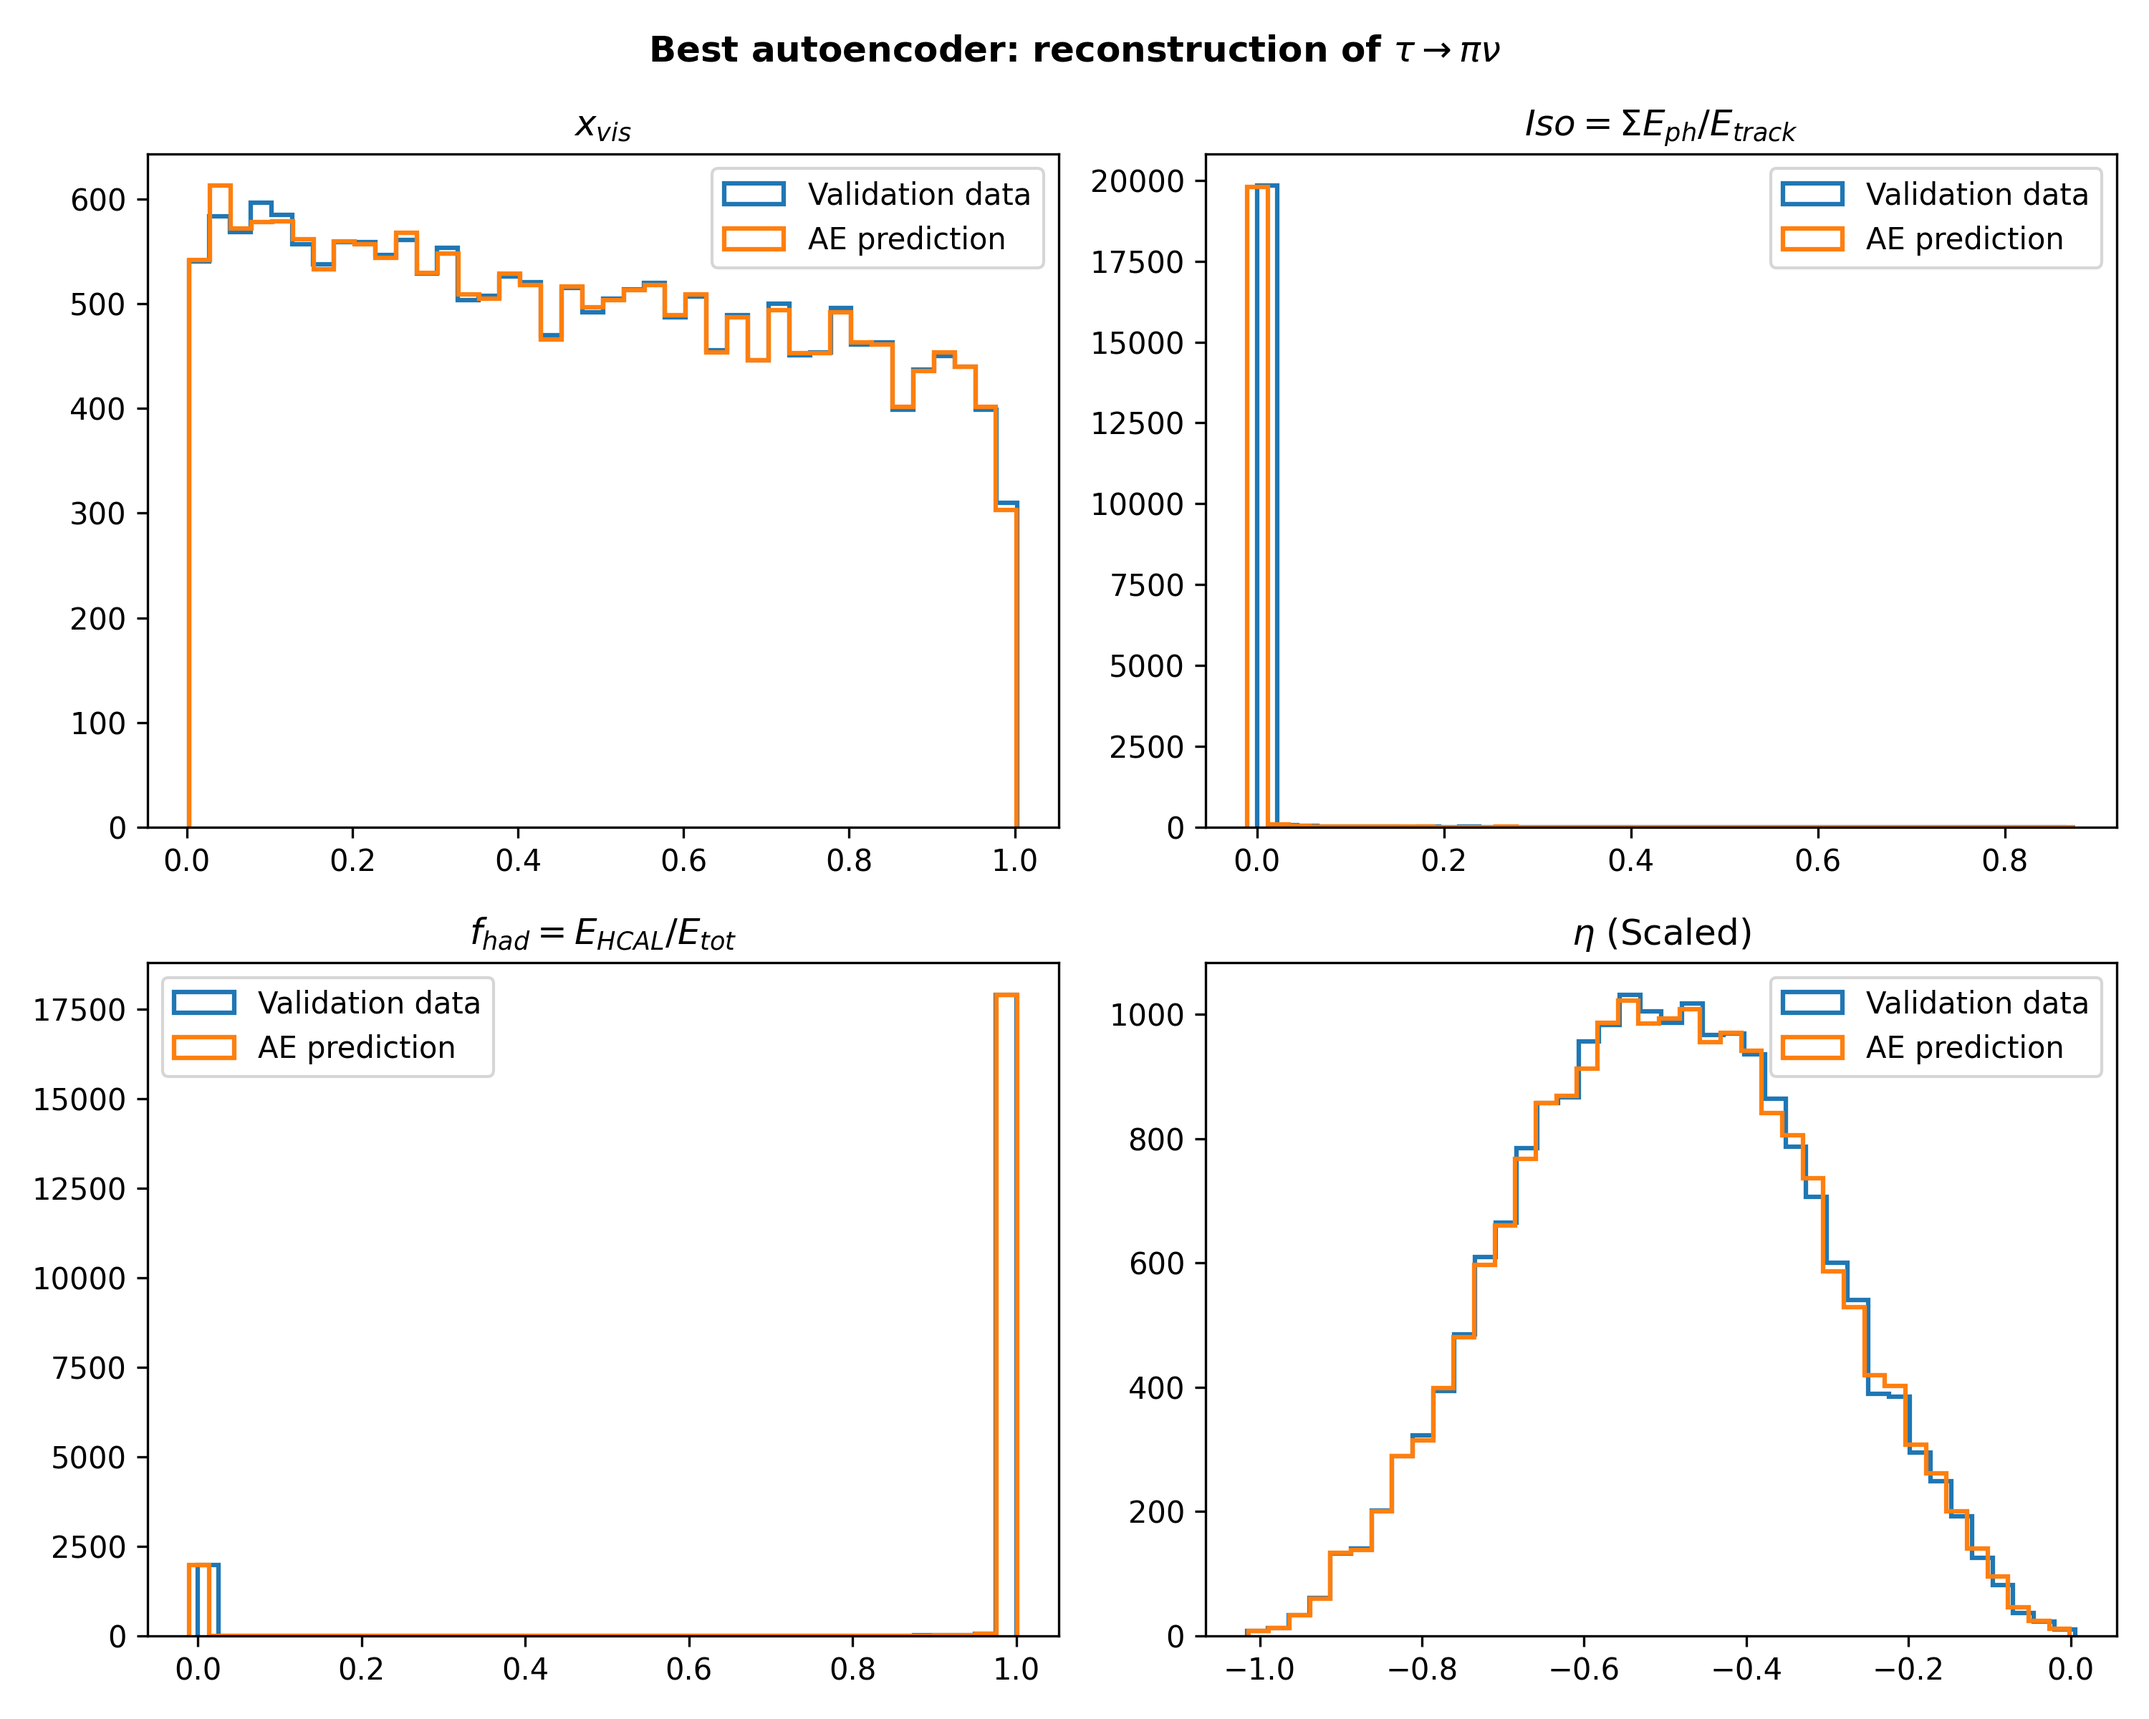
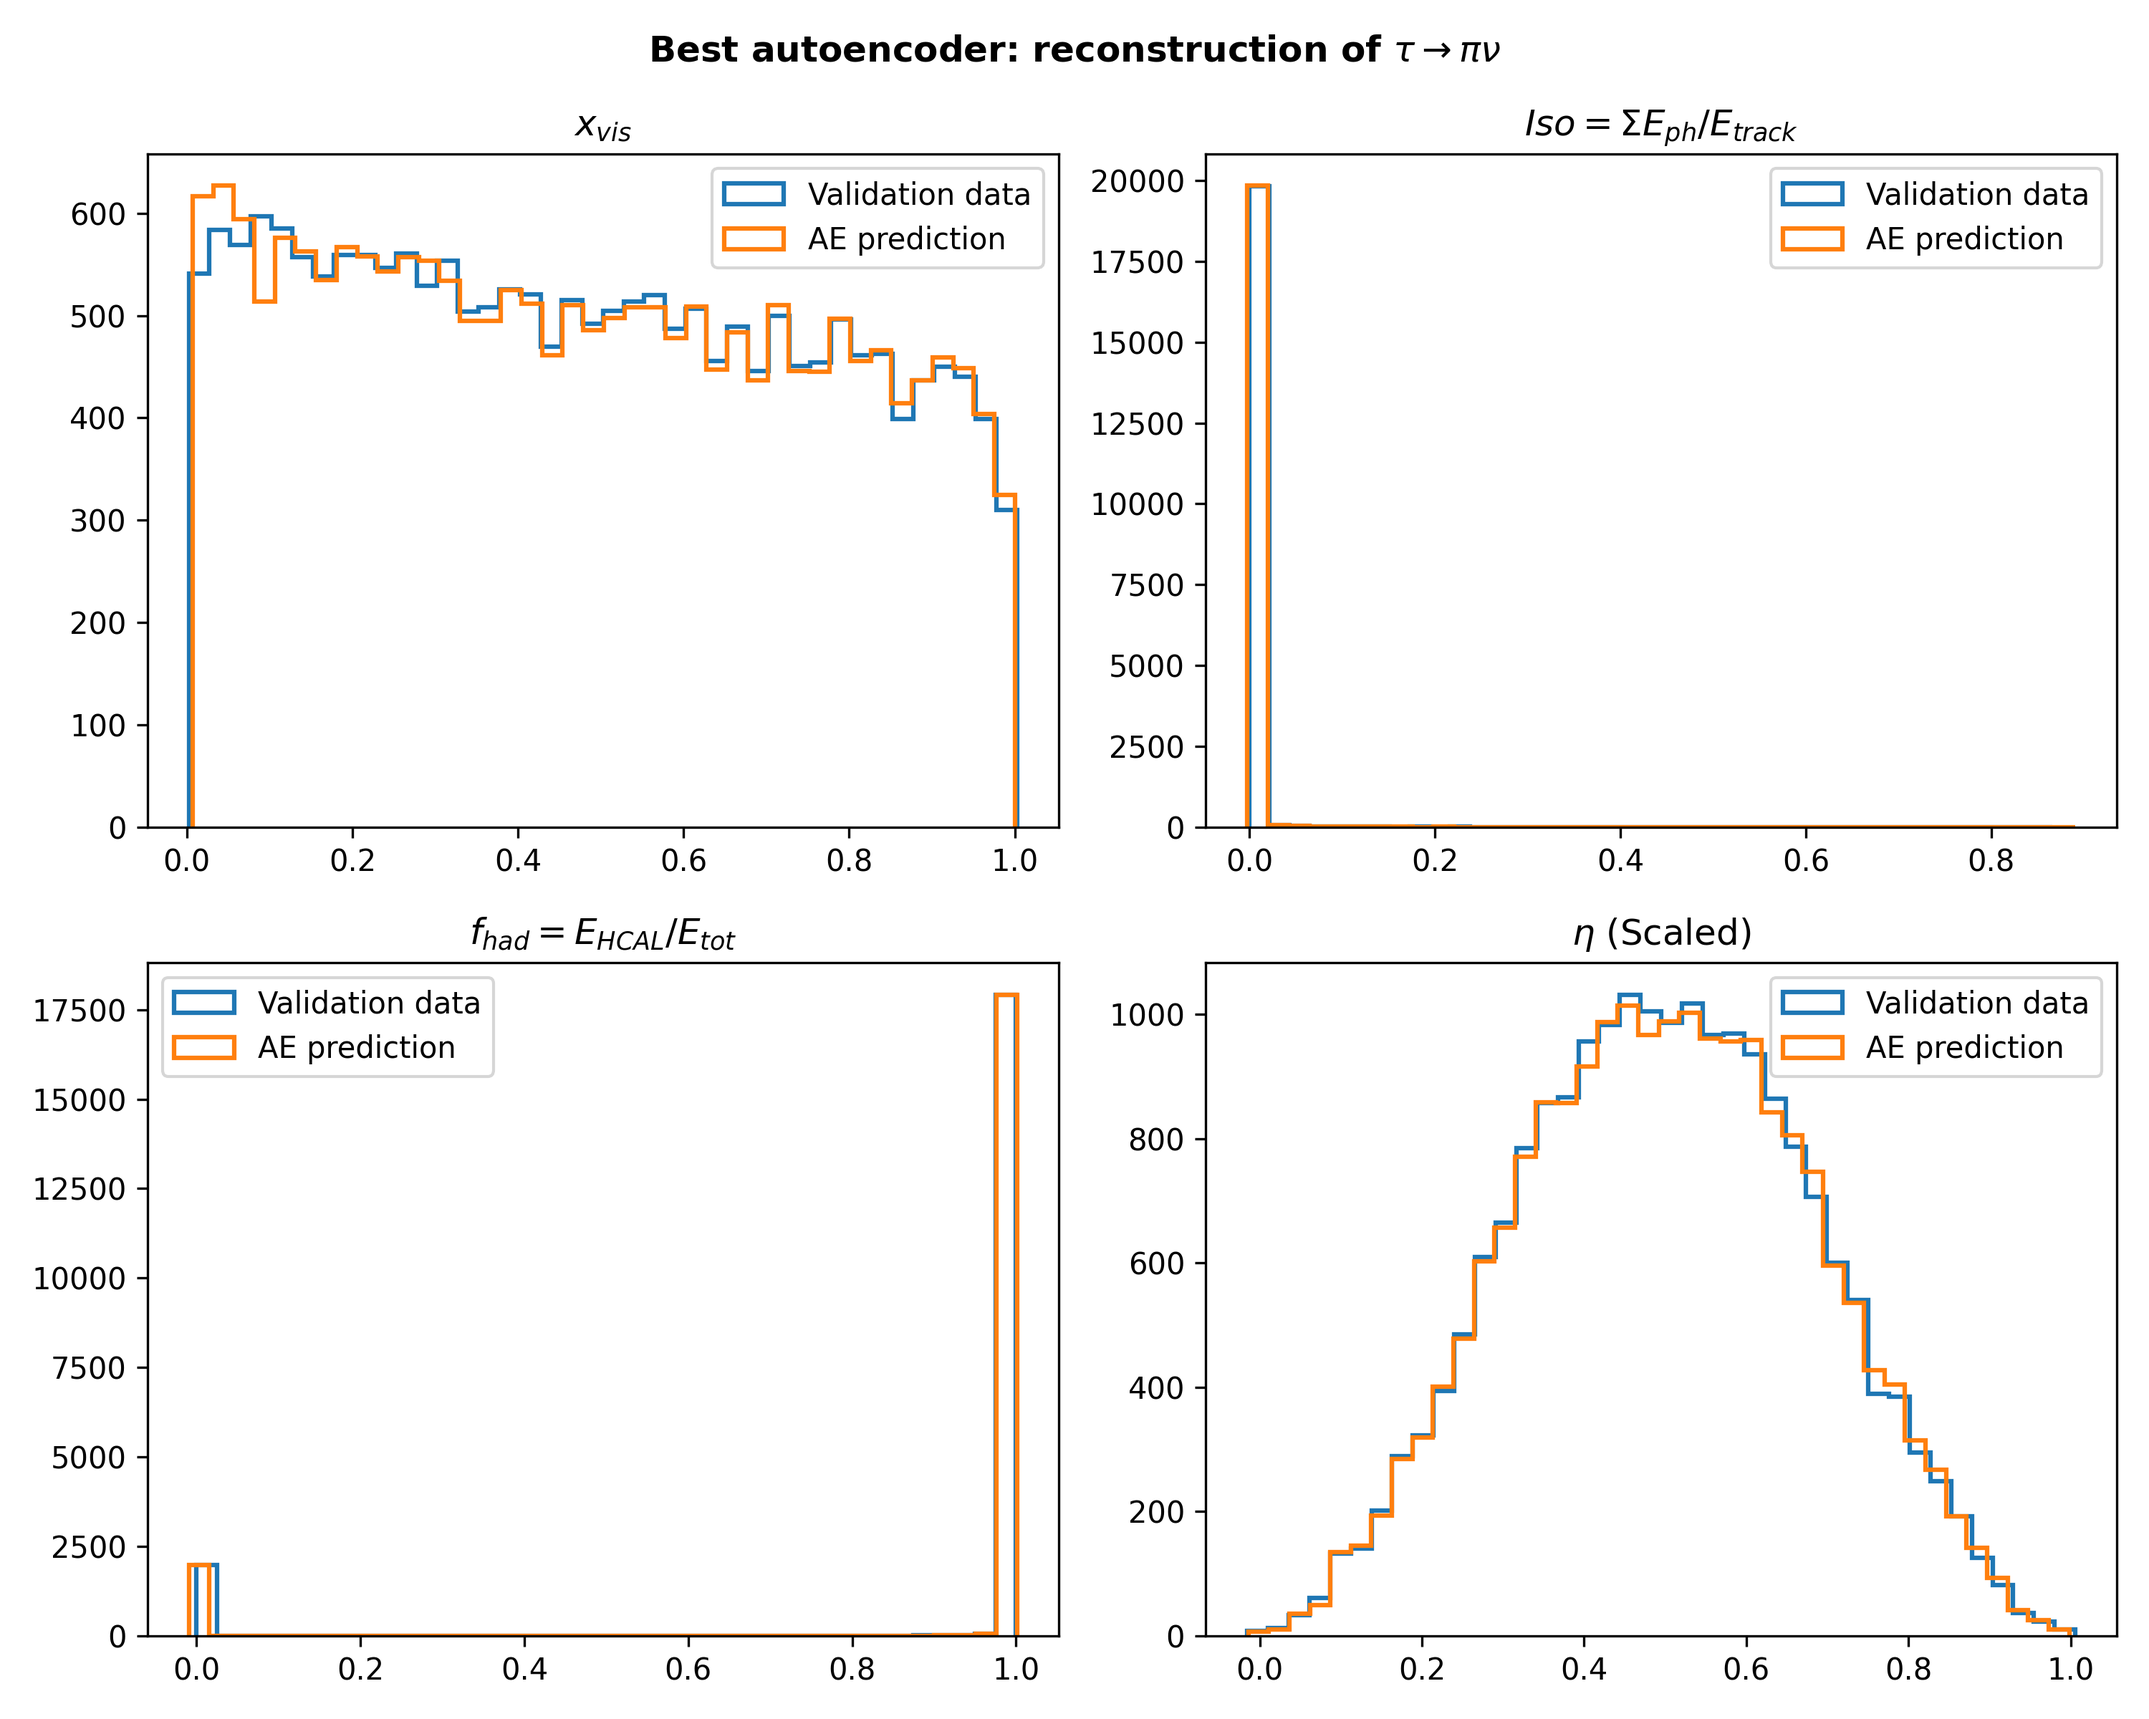
final ae training

diff --git a/autoencoder_workspace/opt_training.py b/autoencoder_workspace/opt_training.py
@@ -11,7 +11,7 @@ MAX_EVALS = 20
 
 def setupParallel():
     physical_cores = multiprocessing.cpu_count()
-    target = int(physical_cores / 2)
+    target = int(physical_cores)
     tf.config.threading.set_intra_op_parallelism_threads(target)
     tf.config.threading.set_inter_op_parallelism_threads(target)
     print(f"[SETUP] Tensorflow loaded on {target} physical cores.")
@@ -21,8 +21,8 @@ def loadDatasetMix():
     rho = np.load('../datasets/rho.npy')
     pi[:, 1] = np.clip(pi[:, 1], 0.0, 1.0)
     rho[:, 1] = np.clip(rho[:, 1], 0.0, 1.0)
-    pi[:, 3] = (pi[:, 3] - ETA_MAX) / 5.0
-    rho[:, 3] = (rho[:, 3] - ETA_MAX) / 5.0
+    pi[:, 3] = (pi[:, 3] + ETA_MAX) / 5.0
+    rho[:, 3] = (rho[:, 3] + ETA_MAX) / 5.0
     return pi, rho
 
 # search space for optimization
@@ -33,19 +33,21 @@ space = {
     'dense_2': hp.choice('dense_2', [8, 16])
 }
 
-def objective(params):
-    tf.keras.utils.set_random_seed(42)
-    
+def create_model(params):
     inputs = tf.keras.layers.Input(shape=(4,))
-    x = tf.keras.layers.Dense(params['dense_1'], activation='elu')(inputs)
-    x = tf.keras.layers.Dense(params['dense_2'], activation='elu')(x)
+    x = tf.keras.layers.Dense(params['dense_1'], activation='tanh')(inputs)
+    x = tf.keras.layers.Dense(params['dense_2'], activation='tanh')(x)
     latent = tf.keras.layers.Dense(params['bottleneck'], activation='linear')(x)
     
-    x = tf.keras.layers.Dense(params['dense_2'], activation='elu')(latent)
-    x = tf.keras.layers.Dense(params['dense_1'], activation='elu')(x)
+    x = tf.keras.layers.Dense(params['dense_2'], activation='tanh')(latent)
+    x = tf.keras.layers.Dense(params['dense_1'], activation='tanh')(x)
     outputs = tf.keras.layers.Dense(4, activation='linear')(x)
     
-    model = tf.keras.Model(inputs=inputs, outputs=outputs)
+    return tf.keras.Model(inputs=inputs, outputs=outputs)
+
+def objective(params):
+    tf.keras.utils.set_random_seed(42)
+    model = create_model(params)
     
     model.compile(
         optimizer=tf.keras.optimizers.Adam(learning_rate=params['learning_rate']),
@@ -132,28 +134,28 @@ if __name__ == "__main__":
     )
 
     best_params = space_eval(space, best_indices)
-    
-    print("\n=======================================================")
-    print("OPTIMIZED RESULTS:")
-    print(f"Learning Rate : {best_params['learning_rate']:.5f}")
-    print(f"Bottleneck    : {best_params['bottleneck']}D")
-    print(f"Dense Layer 1 : {best_params['dense_1']} nodes")
-    print(f"Dense Layer 2 : {best_params['dense_2']} nodes")
-    print(f"Best Val Loss (MSE)   : {trials.best_trial['result']['loss']:.6e}")
-    print("=======================================================\n")
+    best_trial = trials.best_trial
+    if best_trial is None:
+        raise RuntimeError("Hyperopt did not return a best trial.")
+
+    best_result = best_trial["result"]
+    if best_result is None:
+        raise RuntimeError("Hyperopt did not return a best trial result.")
+
+    with open("best.txt", "w", encoding="utf-8") as results_file:
+        print("\n=======================================================", file=results_file)
+        print("OPTIMIZED RESULTS:", file=results_file)
+        print(f"Learning Rate : {best_params['learning_rate']:.5f}", file=results_file)
+        print(f"Bottleneck    : {best_params['bottleneck']}D", file=results_file)
+        print(f"Dense Layer 1 : {best_params['dense_1']} nodes", file=results_file)
+        print(f"Dense Layer 2 : {best_params['dense_2']} nodes", file=results_file)
+        print(f"Best Val Loss (MSE)   : {best_result['loss']:.6e}", file=results_file)
+        print("=======================================================\n", file=results_file)
     
     print("[INFO] Re-train the best model to save to disk...")
-    tf.keras.utils.set_random_seed(42)
-    
-    inputs = tf.keras.layers.Input(shape=(4,))
-    x = tf.keras.layers.Dense(best_params['dense_1'], activation='elu')(inputs)
-    x = tf.keras.layers.Dense(best_params['dense_2'], activation='elu')(x)
-    latent = tf.keras.layers.Dense(best_params['bottleneck'], activation='linear')(x)
-    x = tf.keras.layers.Dense(best_params['dense_2'], activation='elu')(latent)
-    x = tf.keras.layers.Dense(best_params['dense_1'], activation='elu')(x)
-    outputs = tf.keras.layers.Dense(4, activation='linear')(x)
-    
-    champion_model = tf.keras.Model(inputs=inputs, outputs=outputs)
+
+    #tf.keras.utils.set_random_seed(42)
+    champion_model = create_model(best_params)
     champion_model.compile(
         optimizer=tf.keras.optimizers.Adam(learning_rate=best_params['learning_rate']),
         loss='mse'
@@ -163,7 +165,7 @@ if __name__ == "__main__":
     history = champion_model.fit(
         training_pions, training_pions,
         validation_data=(validation_pions, validation_pions),
-        epochs=300, batch_size=256, callbacks=[early_stop], verbose=1
+        epochs=400, batch_size=256, callbacks=[early_stop], verbose=1
     )
     
     champion_model.save("best_pion_autoencoder.keras")

diff --git a/autoencoder_workspace/evaluation.py b/autoencoder_workspace/evaluation.py
@@ -28,8 +28,8 @@ def loadDatasetMix():
   rho = np.load('../datasets/rho.npy')
   pi[:, 1] = np.clip(pi[:, 1], 0.0, 1.0)
   rho[:, 1] = np.clip(rho[:, 1], 0.0, 1.0)
-  pi[:, 3] = (pi[:, 3] - ETA_MAX) / 5.0
-  rho[:, 3] = (rho[:, 3] - ETA_MAX) / 5.0
+  pi[:, 3] = (pi[:, 3] + ETA_MAX) / 5.0
+  rho[:, 3] = (rho[:, 3] + ETA_MAX) / 5.0
   return pi, rho
 
 def calculate_anomaly_scores(model, true_data):
@@ -46,20 +46,15 @@ if __name__ == "__main__":
   print("[INFO] Loading datasets...")
   pi_data, rho_data = loadDatasetMix()
   np.random.shuffle(pi_data)
-
-  #split_index = int(0.8 * len(pi_data))
-  split_index = len(pi_data) - 100000
-  training_pions = pi_data[:split_index].copy()
-  validation_pions = pi_data[split_index:].copy()
-
+  pi_data  =  pi_data[:100000]
   rho_data = rho_data[:100000]
 
   print("[INFO] Loading trained Autoencoder...")
   model = tf.keras.models.load_model("best_pion_autoencoder.keras")
 
-  print(f"[INFO] Running on {len(validation_pions)} pions and {len(rho_data)} rho.")
+  print(f"[INFO] Running on {len(pi_data)} pions and {len(rho_data)} rho.")
 
-  scores_pi = calculate_anomaly_scores(model, validation_pions)
+  scores_pi = calculate_anomaly_scores(model, pi_data)
   scores_rho = calculate_anomaly_scores(model, rho_data)
 
   # calculating threshold and working point
